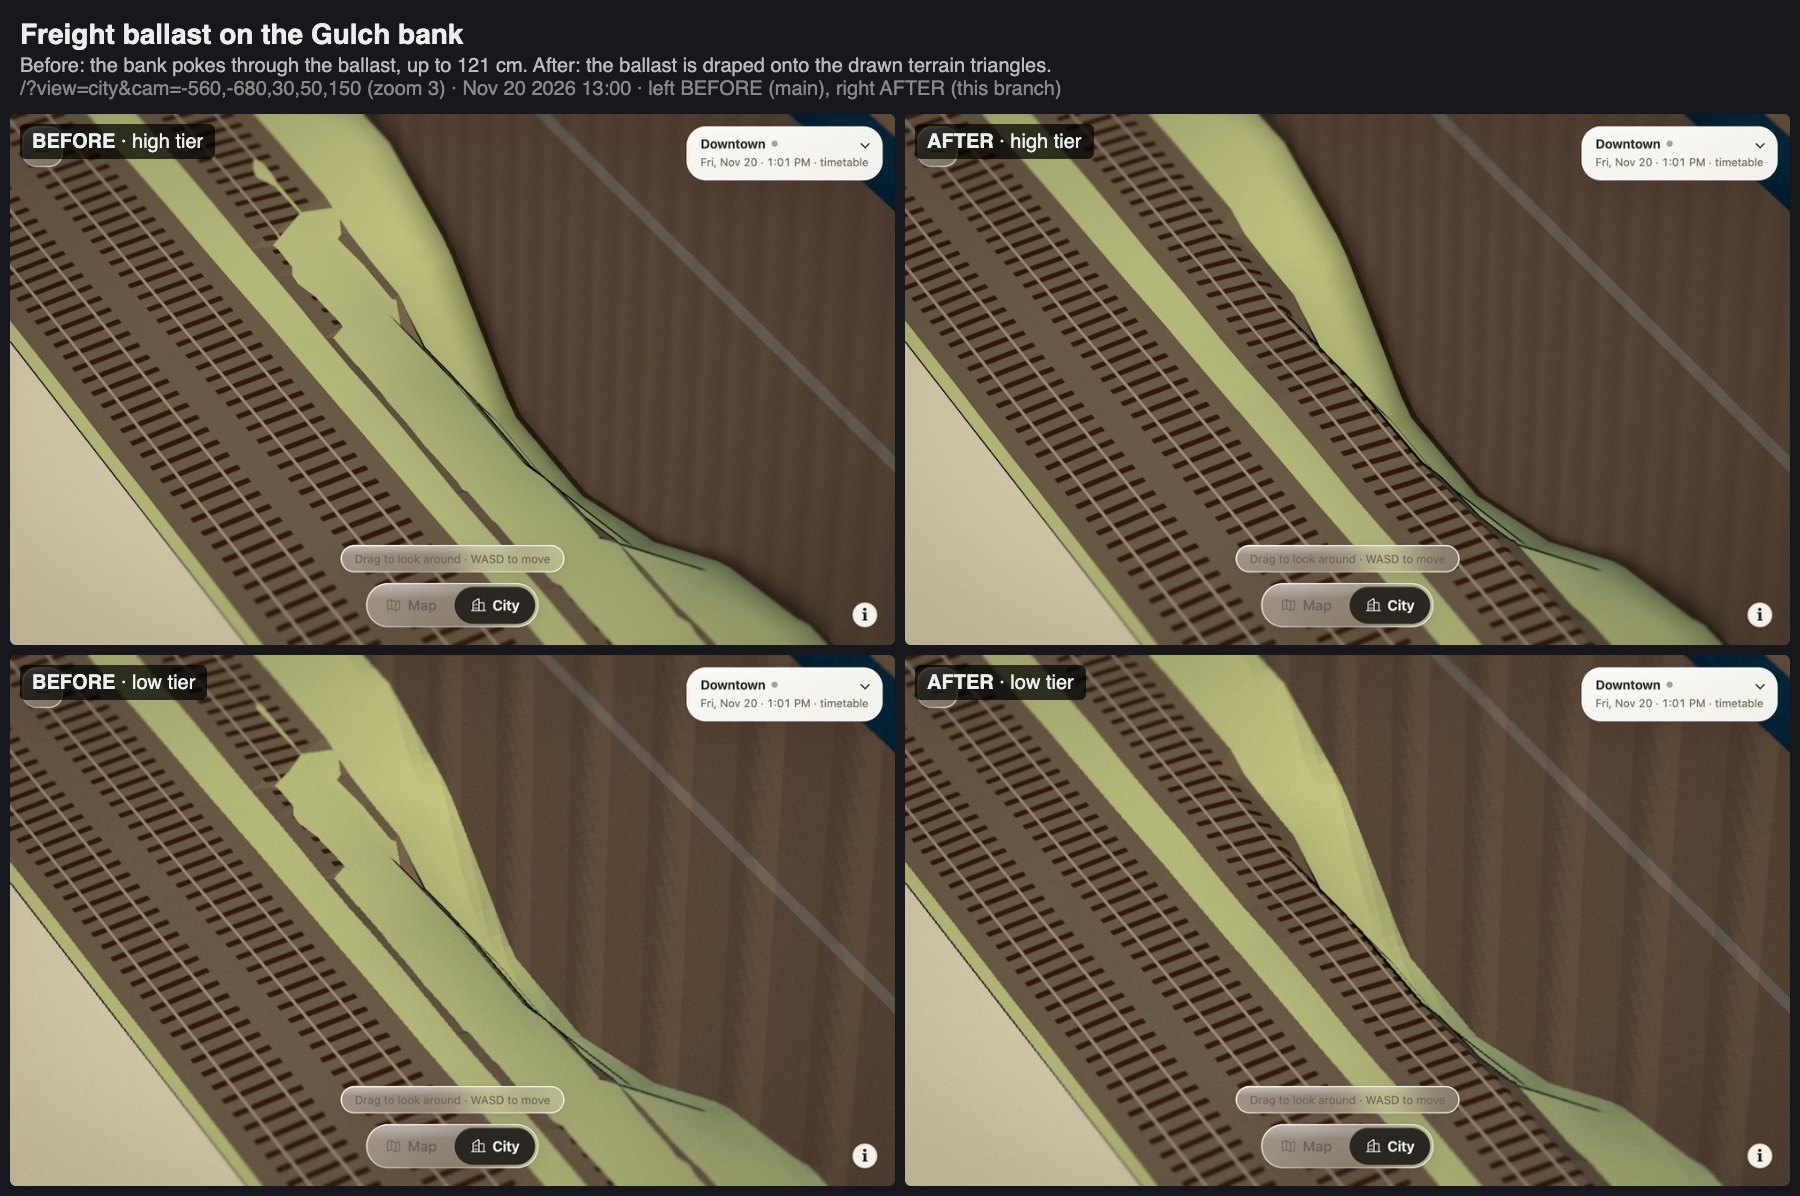
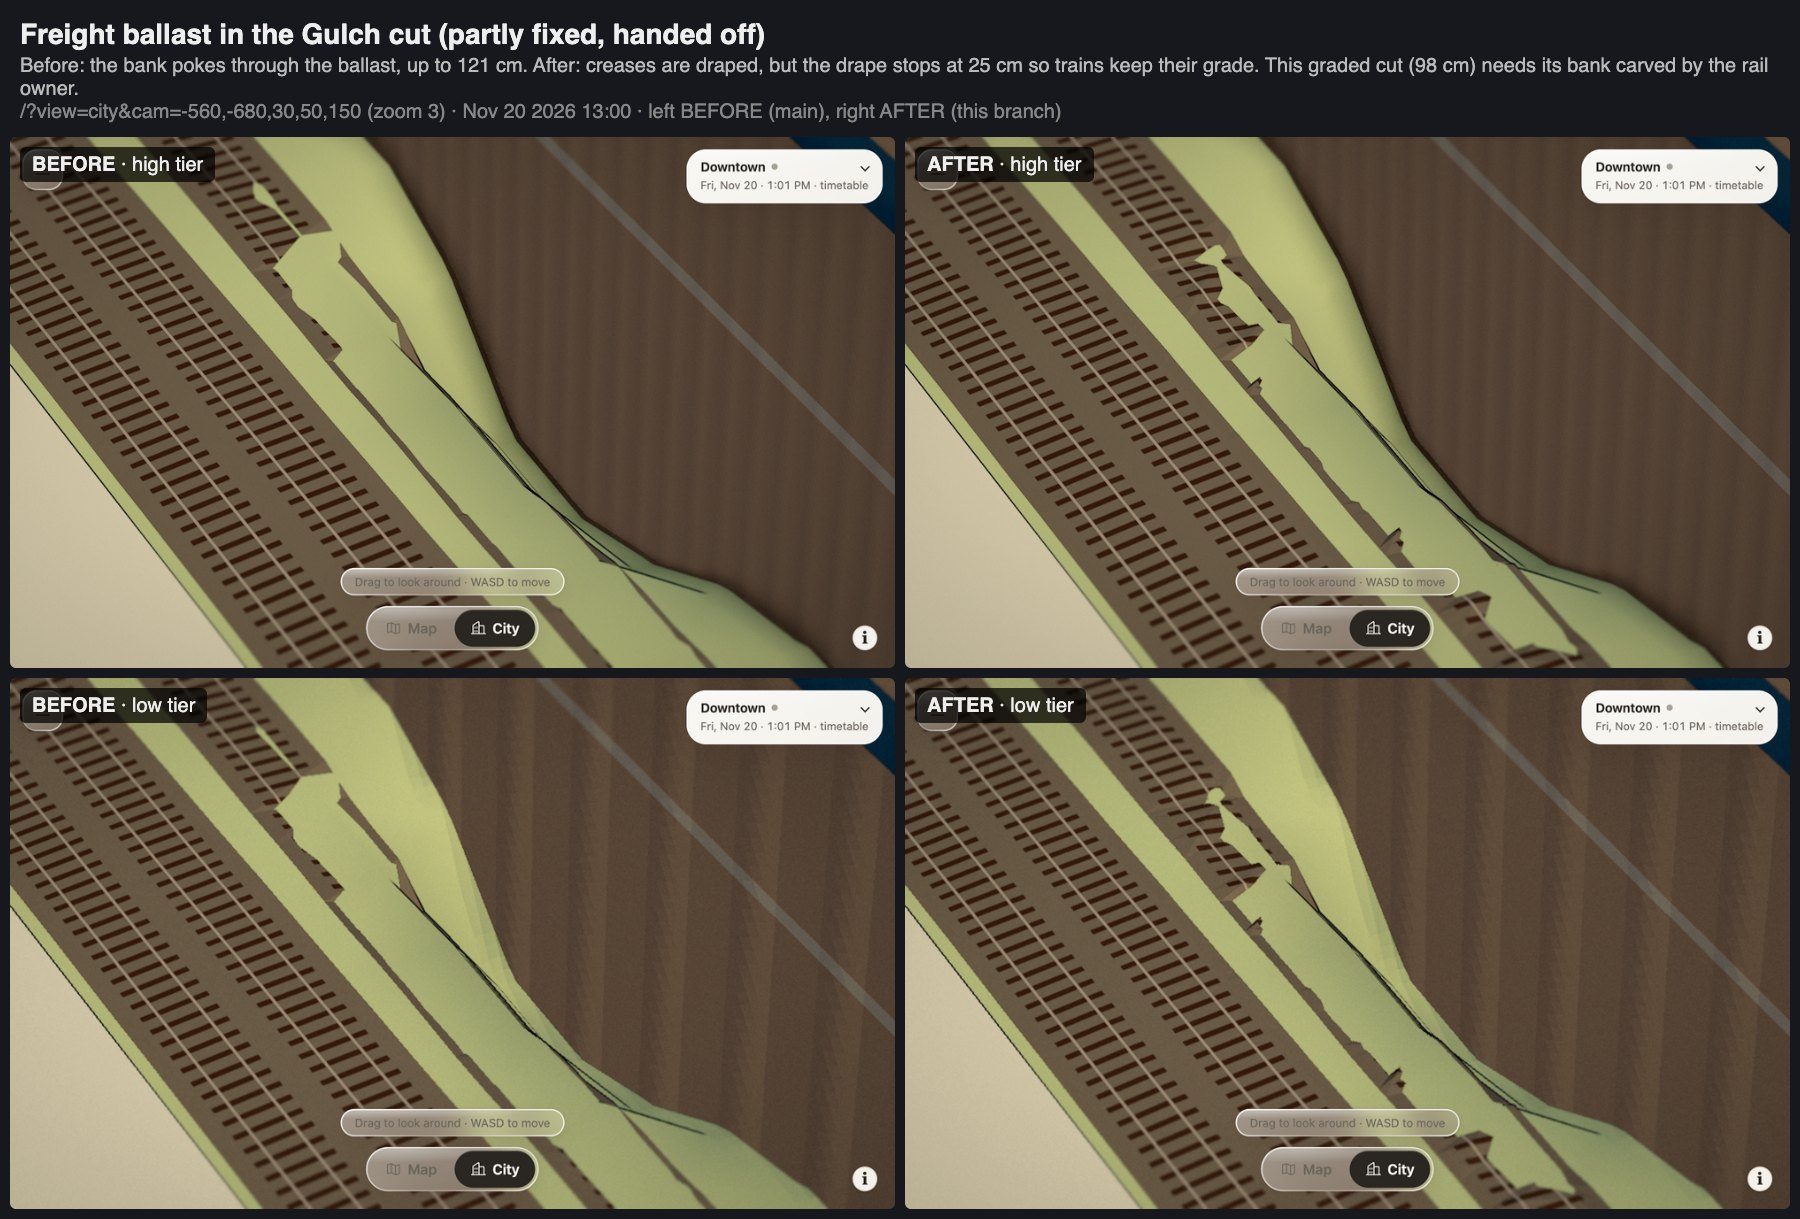
Cap the ballast drape at 25 cm and name the graded cuts; unit-test drape, cutOut and carve
A graded freight cut sits below its bank on purpose and its trains ride
the station heights, so the drape lifts ballast at most 25 cm. The three
graded cuts stay as named exceptions for the rail owner. Synthetic tests
cover the crease split, the cap, cutOut and carve at both tiers,
including the stale-normals rebuild. The audit labels the streetcar track.

diff --git a/web/src/terrain/drape.test.ts b/web/src/terrain/drape.test.ts
@@ -1,0 +1,69 @@
+import { expect, it } from 'vitest';
+import { cutOut, drapeTriangle, type TriangleSource } from './drape';
+import { GroundGrid, type GroundManifest } from './grid';
+import { GroundSurface } from './surface';
+
+// A ridge along z at x = 1: y = x for x <= 1, y = 2 - x beyond, as four drawn triangles.
+const ridgeY = (x: number) => (x <= 1 ? x : 2 - x);
+const ridge: TriangleSource = {
+  trianglesIn(_minX, _maxX, _minZ, _maxZ, visit) {
+    for (const [x0, x1] of [[0, 1], [1, 2]]) {
+      visit(x0, ridgeY(x0), 0, x1, ridgeY(x1), 0, x1, ridgeY(x1), 2);
+      visit(x0, ridgeY(x0), 0, x1, ridgeY(x1), 2, x0, ridgeY(x0), 2);
+    }
+  },
+};
+const area = (p: number[], q: number[], r: number[]) => Math.abs((q[0] - p[0]) * (r[2] - p[2]) - (q[2] - p[2]) * (r[0] - p[0])) / 2;
+
+it('splits a flat sheet at a terrain crease and lifts it clear of the ridge', () => {
+  const pieces: number[][][] = [];
+  drapeTriangle(ridge, [0, .05, 0], [2, .05, 0], [0, .05, 2], .02, (...v) => pieces.push(v));
+  const vertices = pieces.flat();
+  // A vertex lands on the crease, where the ridge peaks between the sheet's own corners.
+  expect(vertices.some(v => Math.abs(v[0] - 1) < 1e-9)).toBe(true);
+  for (const v of vertices) expect(v[1]).toBeGreaterThanOrEqual(ridgeY(v[0]) + .02 - 1e-9);
+  // The pieces tile the original triangle exactly.
+  expect(pieces.reduce((s, [p, q, r]) => s + area(p, q, r), 0)).toBeCloseTo(2, 9);
+  // Barycentric weights reproduce the plan position, so other attributes interpolate.
+  for (const v of vertices) expect(v[3] * 0 + v[4] * 2 + v[5] * 0).toBeCloseTo(v[0], 9);
+});
+
+it('caps the lift for deliberate cuts and leaves a voided triangle whole', () => {
+  const tops: number[] = [];
+  drapeTriangle(ridge, [0, .05, 0], [2, .05, 0], [0, .05, 2], .02, (...v) => tops.push(...v.map(p => p[1])), .25);
+  expect(Math.max(...tops)).toBeCloseTo(.3, 9);
+  const whole: number[][][] = [];
+  drapeTriangle({ trianglesIn() {} }, [0, 0, 0], [1, 0, 0], [0, 0, 1], .02, (...v) => whole.push(v));
+  expect(whole).toHaveLength(1);
+});
+
+it('cuts a convex footprint out of a cover triangle', () => {
+  const kept: number[][][] = [];
+  cutOut([0, 0, 0], [4, 0, 0], [0, 0, 4], [[0.5, 0.5], [1.5, 0.5], [1.5, 1.5], [0.5, 1.5]], (...v) => kept.push(v));
+  expect(kept.reduce((s, [p, q, r]) => s + area(p, q, r), 0)).toBeCloseTo(8 - 1, 9);
+  for (const [p, q, r] of kept) {
+    const cx = (p[0] + q[0] + r[0]) / 3, cz = (p[2] + q[2] + r[2]) / 3;
+    expect(cx > 0.5 && cx < 1.5 && cz > 0.5 && cz < 1.5).toBe(false);
+  }
+});
+
+it.each(['high', 'low'] as const)('carves a yield on %s without moving the board outside it', quality => {
+  // A 9 × 9 node, 5 m grid with a 1 m mound in the middle, NAVD88 metres.
+  const rows = 9, cols = 9, raw = new Int16Array(rows * cols);
+  for (let r = 0; r < rows; r++) for (let c = 0; c < cols; c++)
+    raw[r * cols + c] = Math.round(10 * (300 + Math.max(0, 1 - Math.hypot(r - 4, c - 4) / 3)));
+  const manifest: GroundManifest = { version: 1, rows, cols, stepM: 5, bounds: { minX: 0, maxX: 40, minZ: 0, maxZ: 40 },
+    scaleM: .1, offsetM: 0, noData: -32768, encoding: 'signed int16 little-endian', vertical: { crs: 'EPSG:5703', sceneZeroNavd88M: 300 }, sha256: 'synthetic' };
+  const surface = new GroundSurface(new GroundGrid(manifest, raw.buffer), quality);
+  const outside = [[3, 3], [37, 20], [20, 37]].map(([x, z]) => surface.sampleScene(x, z));
+  surface.carve([{ ring: [[16, 17], [24, 17], [24, 23], [16, 23]], floor: () => 0.2 }]);
+  // Inside the footprint the drawn terrain is at or below the floor, between vertices too.
+  for (let x = 16.2; x < 24; x += .4) for (let z = 17.2; z < 23; z += .4)
+    expect(surface.sampleScene(x, z)!).toBeLessThanOrEqual(0.2 + 1e-6);
+  expect([[3, 3], [37, 20], [20, 37]].map(([x, z]) => surface.sampleScene(x, z))).toEqual(outside);
+  // A rebuild must not keep a normal buffer of the old length (that blanked a whole board).
+  const g = surface.geometry;
+  expect(g.getAttribute('normal').count).toBe(g.getAttribute('position').count);
+  // A yield at the board edge is skipped, not fatal.
+  expect(() => surface.carve([{ ring: [[0, 0], [4, 0], [4, 4], [0, 4]], floor: () => 0 }])).not.toThrow();
+});

diff --git a/web/src/tmp-raise.test.ts b/web/src/tmp-raise.test.ts
@@ -1,0 +1,23 @@
+import { readFileSync } from 'node:fs';
+import { it, vi } from 'vitest';
+import { addSection, bounds, connect, joins, midtownRows, type Area, type Board } from './square-board/sections';
+import { GroundGrid } from './terrain/grid';
+import { createDowntownTerrain } from './terrain/model';
+const source = new URL('../../pipeline/prototypes/', import.meta.url);
+const file = (id: Board, name: string) => readFileSync(new URL((id === 'downtown' ? 'downtown-ground' : id === 'king' ? 'king-memorial/ground' : id === 'auburn' ? 'sweet-auburn/ground' : 'square-board/' + id) + '/' + name, source));
+const grid = (id: Board) => new GroundGrid(JSON.parse(file(id, 'ground.json').toString()), Uint8Array.from(file(id, 'ground.i16')).buffer);
+it('raise', async () => {
+  const ctx = new Proxy({}, { get: () => () => {} });
+  vi.stubGlobal('document', { createElement: () => ({ getContext: () => ctx }) });
+  vi.stubGlobal('fetch', async (url: string) => { const [, id, name] = url.match(/square-board\/([^/]+)\/(.+)$/)!; return new Response(Uint8Array.from(file(id as Board, name)).buffer); });
+  const m = new Map<Board, Area>(), sig = new AbortController().signal;
+  for (const id of ['downtown', 'king', 'auburn'] as const) connect(m, new Map([[id, createDowntownTerrain(grid(id), { bounds: bounds[id], buildings: [], roads: [], rail: [] }, [], { quality: 'high', bottomY: -48, join: joins(id) })]]));
+  (globalThis as any).__raise = [];
+  await addSection('south', m, 'high', sig); await addSection('north', m, 'high', sig);
+  for (const r of midtownRows.slice(0, 3)) await addSection(r, m, 'high', sig);
+  const r: number[][] = (globalThis as any).__raise; const d = r.map(x => x[0]);
+  const b = [0.001, 0.03, 0.1, 0.3, 1, 99].map((t, i, a) => d.filter(v => v >= (i ? a[i-1] : -1) && v < t).length);
+  console.log('verts', d.length, 'raise buckets <1mm,<3cm,<10cm,<30cm,<1m,>1m', b.join(' '), 'max', Math.max(...d).toFixed(2));
+  const deep = r.filter(x => x[0] > 0.3); const cells = new Map<string, number>(); for (const x of deep) { const k = Math.round(x[1]/50)*50 + ',' + Math.round(x[2]/50)*50; cells.set(k, Math.max(cells.get(k) ?? 0, x[0])); }
+  console.log('deep sites', [...cells].slice(0, 12).map(([k, v]) => k + ':' + v.toFixed(2)).join('  '));
+}, 60000);

diff --git a/web/src/terrain/ground-contact.test.ts b/web/src/terrain/ground-contact.test.ts
@@ -23,6 +23,17 @@ afterEach(() => vi.unstubAllGlobals());
  * Connector work) and soft planting (shrub clumps sunk into a bank on purpose).
  */
 const HELD = ['rail ballast', 'ground cover', 'landscape primitives:tread', 'landscape primitives:stone'];
+/**
+ * Graded freight cuts, where the track sits below its bank on purpose. The ballast
+ * drape lifts at most 25 cm, so these need the bank carved by the rail owner
+ * (handed off in #282): south-band west of the Gulch, and midtown-south's cut.
+ */
+const GRADED_CUTS = [
+  { minX: -1020, maxX: -870, minZ: 870, maxZ: 980 },
+  { minX: -840, maxX: -760, minZ: -1935, maxZ: -1820 },
+];
+const exclude = (layer: string, x: number, z: number) => layer === 'rail ballast' &&
+  GRADED_CUTS.some(b => x >= b.minX && x <= b.maxX && z >= b.minZ && z <= b.maxZ);
 
 it.each(['high', 'low'] as const)('keeps the drawn terrain under ground-hugging layers on %s', async quality => {
   const ctx = new Proxy({}, { get: () => () => {} });
@@ -42,7 +53,7 @@ it.each(['high', 'low'] as const)('keeps the drawn terrain under ground-hugging 
     const root = new Group();
     for (const area of mounted.values()) root.add(area.group);
     const audit = groundAudit(root, [...mounted].map(([id, area]) => ({ id, bounds: area.bounds, terrainAt: area.terrainAt, terrain: [area.board] })),
-      { layer: cityLayer, colors: CITY_COLORS, step: 0.5, tolerance: 0.03 });
+      { layer: cityLayer, colors: CITY_COLORS, step: 0.5, tolerance: 0.03, exclude });
     const held = (l: LayerResult) => HELD.includes(l.layer);
     const sampled = audit.layers.filter(held);
     // The layers under test are actually present: the High's granite steps and lawn turf

diff --git a/web/src/terrain/drape.ts b/web/src/terrain/drape.ts
@@ -9,6 +9,9 @@
  * to at least `terrain + lift`. On each piece both the surface and the terrain
  * are planar, so the linear interpolation of that max stays at or above both
  * everywhere: nothing can poke through, and a raised surface never moves down.
+ * `maxRaise` bounds the lift to crease-sized bulges for surfaces whose height is
+ * deliberate (a graded rail cut); deeper sites keep their height and stay visible
+ * to the ground audit.
  */
 
 /** Drawn terrain triangles, as GroundSurface exposes them. */
@@ -32,7 +35,7 @@ type V = readonly number[];
  * a void or off the board, abc is emitted unchanged: there is no terrain to clear.
  */
 export function drapeTriangle(src: TriangleSource, a: V, b: V, c: V, lift: number,
-  emit: (p: DrapedVertex, q: DrapedVertex, r: DrapedVertex) => void) {
+  emit: (p: DrapedVertex, q: DrapedVertex, r: DrapedVertex) => void, maxRaise = Infinity) {
   const area = (b[0] - a[0]) * (c[2] - a[2]) - (b[2] - a[2]) * (c[0] - a[0]);
   const whole = () => emit([a[0], a[1], a[2], 1, 0, 0], [b[0], b[1], b[2], 0, 1, 0], [c[0], c[1], c[2], 0, 0, 1]);
   if (Math.abs(area) < 1e-9) { whole(); return; }
@@ -79,7 +82,7 @@ export function drapeTriangle(src: TriangleSource, a: V, b: V, c: V, lift: numbe
     };
     pieces.push(poly.map(([x, z]) => {
       const w = weights(x, z), own = w[0] * a[1] + w[1] * b[1] + w[2] * c[1];
-      return [x, Math.max(own, terrain(x, z) + lift), z, ...w];
+      return [x, Math.min(own + maxRaise, Math.max(own, terrain(x, z) + lift)), z, ...w];
     }));
   });
   // Shared edges and float rounding leave slivers; demand near-complete cover.

diff --git a/web/src/terrain/ground-audit.ts b/web/src/terrain/ground-audit.ts
@@ -28,6 +28,8 @@ export interface AuditOptions {
   layer?: (path: string[], mesh: THREE.Mesh) => string | null;
   /** Vertex-colour names that split one merged mesh into layers, such as tread or mulch. */
   colors?: Record<string, string>;
+  /** Named, known sites to leave out (handed to another owner), by layer and position. */
+  exclude?: (layer: string, x: number, z: number) => boolean;
 }
 
 export interface Penetration { layer: string; board: string; x: number; y: number; z: number; depth: number; path: string }
@@ -73,6 +75,7 @@ export function cityLayer(path: string[], mesh: THREE.Mesh): string | null {
   if (curated) return 'curated landscape';
   if (names.includes('Decks and embedded rails')) return 'streets';
   if (names.includes('Freight track')) return 'rail ballast';
+  if (names.includes('Atlanta Streetcar track')) return 'streetcar track';
   const own = defaultLayer(path, mesh);
   return own && !own.startsWith('unnamed') ? 'landmark · ' + own : own;
 }
@@ -161,7 +164,7 @@ export function groundAudit(root: THREE.Object3D, boards: AuditBoard[], o: Audit
         const y = (w * a.y + u * b.y + v * c.y) * (1 - inset) + cy * inset;
         const z = (w * a.z + u * b.z + v * c.z) * (1 - inset) + cz * inset;
         const t = terrainAt(x, z);
-        if (!t) continue;
+        if (!t || o.exclude?.(layer, x, z)) continue;
         const [board, ty] = t;
         const key = layer + '\u0000' + board.id;
         let r = results.get(key);

diff --git a/web/src/terrain/transport.ts b/web/src/terrain/transport.ts
@@ -349,7 +349,9 @@ export function createSurfaceTransport(city: TerrainCity, grid: GroundGrid, terr
           const drawn = (terrainGround as DrapeGround).triangles;
           if (textured && !bridge && drawn && run !== cut?.freight) {
             // Ground ballast follows the drawn terrain between its 2 m stations, so a
-            // crease in the bank can't show through it (terrain/drape.ts).
+            // crease in the bank can't show through it (terrain/drape.ts). The raise is
+            // capped at 25 cm: a graded cut sits below its bank on purpose, and the
+            // freight treads (and trains) keep the station heights.
             const corners = [[a, 0, lastS], [b, 1, lastS], [c, 1, s], [d, 0, s]] as const;
             for (const [i, j, k] of [[0, 1, 2], [0, 2, 3]]) {
               const tri = [corners[i], corners[j], corners[k]];
@@ -357,7 +359,7 @@ export function createSurfaceTransport(city: TerrainCity, grid: GroundGrid, terr
                 freight.tri(vs[0].slice(0, 3), vs[1].slice(0, 3), vs[2].slice(0, 3), color);
                 for (const v of vs) uv.push(v[3] * tri[0][1] + v[4] * tri[1][1] + v[5] * tri[2][1],
                   (v[3] * tri[0][2] + v[4] * tri[1][2] + v[5] * tri[2][2]) / .8);
-              });
+              }, .25);
             }
           } else {
             (textured ? freight : structures).quad(a, b, c, d, color);

diff --git a/docs/build-log.md b/docs/build-log.md
@@ -2570,4 +2570,4 @@ Before modelling, we looked at every Atlanta Streetcar stop in Street View, expe
 Sam decided the A2c interface replaces the old one ("this is the new style moving forward"). After nine steps behind a flag, the flag flips: every visitor now gets the four glass places, the white-model arrival, the Models view and the rest by default. Old `?ui=next` links still work, and share links stop carrying them. `?ui=classic` brings back the previous shell for one release as an escape hatch. In the release after this one, delete it along with `web/src/ui/shell.ts`, its stylesheet and the classic-only markup in `index.html`. It needs only a web rebuild.
 ### 2026-11-23 — Ground that stays under the stone
 
-Sam kept seeing the lawn poke through the High's granite steps, and terrain through ballast and decks closer in. A new audit (`pnpm audit:ground`, `web/src/terrain/ground-audit.ts`) drives headless Chrome over the full board and samples every upward, ground-hugging triangle on a 0.5 m lattice against the terrain triangles that are actually drawn at that tier. Its first finding changed the plan. Streets, sidewalks, crosswalks and parking on the terrain boards are painted into the ground texture, so they cannot show terrain through them. The real exposure was the geometric layers: freight ballast had 12,555 penetrating samples (worst 121 cm on the Gulch bank), the High's stair treads 188 (28 cm), and curated beds 36 (22 cm). The two tiers agreed within 1%, because every layer samples its own tier's ground, and so the fault lay between samples, not between tiers. There are two fixes, one per kind of surface. Ground-following layers now drape: `terrain/drape.ts` splits each surface triangle along every drawn terrain edge beneath it and raises each piece to at least terrain + lift, so no crease can hide between two samples. Ballast, the new lawn turf and curated beds go through it. Hard surfaces carve instead: `stairRun` returns its footprint, and `GroundSurface.carve` lowers the drawn terrain, never raises it, to a plane one riser under the nosings, with a skirt hidden inside cheek walls that now rise to grade. The surprise was a rebuild bug that took the whole Midtown-upper lawn with it: `computeVertexNormals` quietly reuses a normal buffer of the old length. After the fix, ballast, treads, turf and curated beds are all at 0 on both tiers. Street decks (32.7k samples) and bridge approaches (19.2k) follow surveyed profiles, so they went to their owner rather than being draped. The orbit near plane now scales with distance (20 m at 150 m, 1.6 km at 8 km), which cuts depth steps at the full-board view from about 0.4 m to a few millimetres. Web rebuild only; no `pnpm data`. [Steps](log/ground-contact/ground-contact-stairs.jpg) · [Ballast](log/ground-contact/ground-contact-ballast.jpg) · [Sidewalk](log/ground-contact/ground-contact-sidewalk.jpg) · [Crosswalk](log/ground-contact/ground-contact-crosswalk.jpg)
+Sam kept seeing the lawn poke through the High's granite steps, and terrain through ballast and decks closer in. A new audit (`pnpm audit:ground`, `web/src/terrain/ground-audit.ts`) drives headless Chrome over the full board and samples every upward, ground-hugging triangle on a 0.5 m lattice against the terrain triangles that are actually drawn at that tier. Its first finding changed the plan. Streets, sidewalks, crosswalks and parking on the terrain boards are painted into the ground texture, so they cannot show terrain through them. The real exposure was the geometric layers: freight ballast had 12,555 penetrating samples (worst 121 cm on the Gulch bank), the High's stair treads 188 (28 cm), and curated beds 36 (22 cm). The two tiers agreed within 1%, because every layer samples its own tier's ground, and so the fault lay between samples, not between tiers. There are two fixes, one per kind of surface. Ground-following layers now drape: `terrain/drape.ts` splits each surface triangle along every drawn terrain edge beneath it and raises each piece to at least terrain + lift, so no crease can hide between two samples. Ballast, the new lawn turf and curated beds go through it. Hard surfaces carve instead: `stairRun` returns its footprint, and `GroundSurface.carve` lowers the drawn terrain, never raises it, to a plane one riser under the nosings, with a skirt hidden inside cheek walls that now rise to grade. The surprise was a rebuild bug that took the whole Midtown-upper lawn with it: `computeVertexNormals` quietly reuses a normal buffer of the old length. After the fix, treads, turf and curated beds are at 0 on both tiers. Ballast fell from 12,555 samples to 5,831 (249 sites to 65). The rest sits in three graded cuts where the track runs below its bank on purpose (the Gulch at 98 cm, plus Midtown and the south band), so the drape stops at 25 cm, trains keep their grade, and those banks go to the rail owner for a carve. Street decks (32.7k samples) and bridge approaches (19.2k) follow surveyed profiles, so they went to their owner rather than being draped. The orbit near plane now scales with distance (20 m at 150 m, 1.6 km at 8 km), which cuts depth steps at the full-board view from about 0.4 m to a few millimetres. Web rebuild only; no `pnpm data`. [Steps](log/ground-contact/ground-contact-stairs.jpg) · [Ballast crease](log/ground-contact/ground-contact-crease.jpg) · [Gulch cut](log/ground-contact/ground-contact-ballast.jpg) · [Sidewalk](log/ground-contact/ground-contact-sidewalk.jpg) · [Crosswalk](log/ground-contact/ground-contact-crosswalk.jpg)
